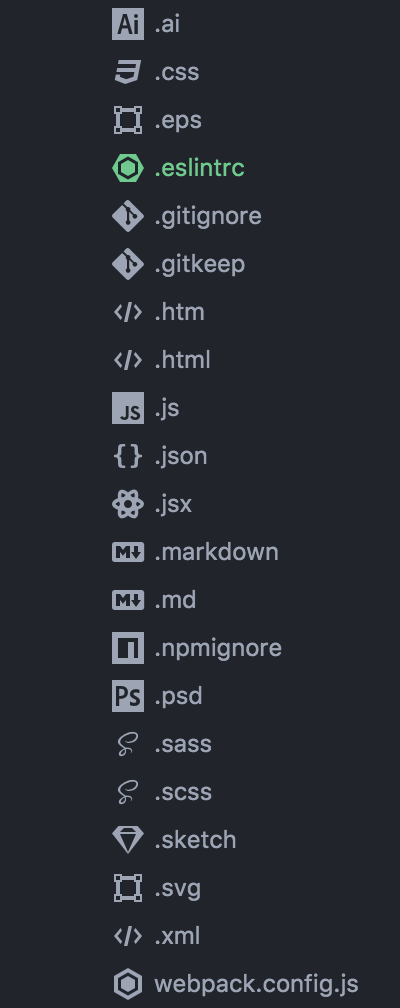
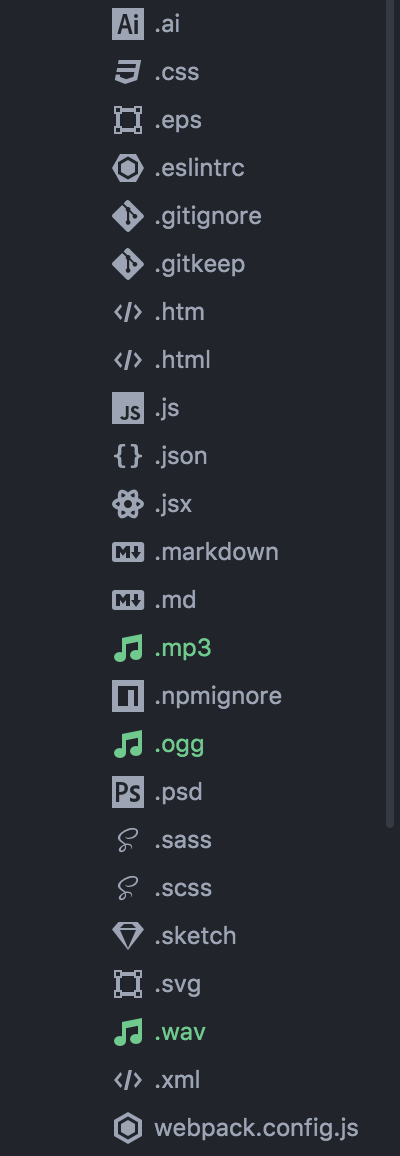
0.6.0 - Good vibes

diff --git a/styles/icons.less b/styles/icons.less
@@ -1,15 +1,16 @@
 @icon-ai: "\e900";
-@icon-css: "\e901";
-@icon-eslint: "\e902";
-@icon-git: "\e903";
-@icon-html: "\e904";
-@icon-js: "\e905";
-@icon-json: "\e906";
-@icon-jsx: "\e907";
-@icon-markdown: "\e908";
-@icon-npm: "\e909";
-@icon-ps: "\e90a";
-@icon-sass: "\e90b";
-@icon-sketch: "\e90c";
+@icon-audio: "\e901";
+@icon-css: "\e902";
+@icon-eslint: "\e903";
+@icon-git: "\e904";
+@icon-html: "\e905";
+@icon-js: "\e906";
+@icon-json: "\e907";
+@icon-jsx: "\e908";
+@icon-markdown: "\e909";
+@icon-npm: "\e90a";
+@icon-ps: "\e90b";
+@icon-sass: "\e90c";
+@icon-sketch: "\e90d";
 @icon-vector: "\e90e";
-@icon-webpack: "\e90d";
+@icon-webpack: "\e90f";

diff --git a/styles/index.less b/styles/index.less
@@ -8,6 +8,11 @@
 // ai
 .icon('.ai', 'ai');
 
+// audio
+.icon('.mp3', 'audio');
+.icon('.ogg', 'audio');
+.icon('.wav', 'audio');
+
 // css
 .icon('.css', 'css');
 

diff --git a/CHANGELOG.md b/CHANGELOG.md
@@ -1,10 +1,14 @@
+## 0.6.0 - Good vibes (2016-05-07)
+### Added
+* <img src="https://cdn.rawgit.com/igorskuhar/front-icons/v0.6.0/assets/icons/audio.svg" height="16"> audio (.mp3, .ogg, .wav)
+
 ## 0.5.0 - Broken rules (2016-05-05)
 ### Added
-* eslint (.eslintrc.js, .eslintrc.yaml, .eslintrc.yml, .eslintrc.json, .eslintrc)
+* <img src="https://cdn.rawgit.com/igorskuhar/front-icons/v0.5.0/assets/icons/eslint.svg" height="16"> eslint (.eslintrc.js, .eslintrc.yaml, .eslintrc.yml, .eslintrc.json, .eslintrc)
 
 ## 0.4.0 - Bling bling (2016-05-05)
 ### Added
-* sketch (.sketch)
+* <img src="https://cdn.rawgit.com/igorskuhar/front-icons/v0.4.0/assets/icons/sketch.svg" height="16"> sketch (.sketch)
 
 ## 0.3.1 - Greedy pixels (2016-05-05)
 ### Fixed
@@ -12,26 +16,26 @@
 
 ## 0.3.0 - Third party (2016-05-04)
 ### Added
-* ai (.ai)
-* ps (.psd)
+* <img src="https://cdn.rawgit.com/igorskuhar/front-icons/v0.3.0/assets/icons/ai.svg" height="16"> ai (.ai)
+* <img src="https://cdn.rawgit.com/igorskuhar/front-icons/v0.3.0/assets/icons/ps.svg" height="16"> ps (.psd)
 
 ### Changed
-* js (.js)
-* npm (node_modules, .npmignore)
+* <img src="https://cdn.rawgit.com/igorskuhar/front-icons/v0.3.0/assets/icons/js.svg" height="16"> js (.js)
+* <img src="https://cdn.rawgit.com/igorskuhar/front-icons/v0.3.0/assets/icons/npm.svg" height="16"> npm (node_modules, .npmignore)
 
 ## 0.2.0 - Second look (2016-05-03)
 ### Added
-* vector (.eps, .svg)
+* <img src="https://cdn.rawgit.com/igorskuhar/front-icons/v0.2.0/assets/icons/vector.svg" height="16"> vector (.eps, .svg)
 
 ## 0.1.0 - First blood (2016-05-03)
 ### Added
-* css (.css)
-* git (.gitignore, .gitkeep)
-* html (.htm, .html, .xml)
-* js (.js)
-* json (.json)
-* jsx (.jsx)
-* markdown (.markdown, .md)
-* npm (node_modules, .npmignore)
-* sass (.sass, .scss)
-* webpack (webpack.config.js)
+* <img src="https://cdn.rawgit.com/igorskuhar/front-icons/v0.1.0/assets/icons/css.svg" height="16"> css (.css)
+* <img src="https://cdn.rawgit.com/igorskuhar/front-icons/v0.1.0/assets/icons/git.svg" height="16"> git (.gitignore, .gitkeep)
+* <img src="https://cdn.rawgit.com/igorskuhar/front-icons/v0.1.0/assets/icons/html.svg" height="16"> html (.htm, .html, .xml)
+* <img src="https://cdn.rawgit.com/igorskuhar/front-icons/v0.1.0/assets/icons/js.svg" height="16"> js (.js)
+* <img src="https://cdn.rawgit.com/igorskuhar/front-icons/v0.1.0/assets/icons/json.svg" height="16"> json (.json)
+* <img src="https://cdn.rawgit.com/igorskuhar/front-icons/v0.1.0/assets/icons/jsx.svg" height="16"> jsx (.jsx)
+* <img src="https://cdn.rawgit.com/igorskuhar/front-icons/v0.1.0/assets/icons/markdown.svg" height="16"> markdown (.markdown, .md)
+* <img src="https://cdn.rawgit.com/igorskuhar/front-icons/v0.1.0/assets/icons/npm.svg" height="16"> npm (node_modules, .npmignore)
+* <img src="https://cdn.rawgit.com/igorskuhar/front-icons/v0.1.0/assets/icons/sass.svg" height="16"> sass (.sass, .scss)
+* <img src="https://cdn.rawgit.com/igorskuhar/front-icons/v0.1.0/assets/icons/webpack.svg" height="16"> webpack (webpack.config.js)

diff --git a/README.md b/README.md
@@ -1,5 +1,16 @@
 # Front Icons
+An [Atom](https://atom.io/) package adding hand-crafted, pixel-perfect icons next to the filenames based on the extension.
 
-A set of hand-crafted, pixel-perfect front-end icons.
+## How to install
+```
+apm install front-icons
+```
+or search for the `front-icons` package in Settings view.
+## Preview
+![Preview](https://cdn.rawgit.com/igorskuhar/front-icons/master/preview.png)
 
-![A set of hand-crafted, pixel-perfect front-end icons.](https://raw.githubusercontent.com/igorskuhar/front-icons/master/preview.png)
+## Changelog
+See [CHANGELOG](https://github.com/igorskuhar/front-icons/blob/master/CHANGELOG.md).
+
+## License
+[MIT](https://github.com/igorskuhar/front-icons/blob/master/LICENSE.md)
